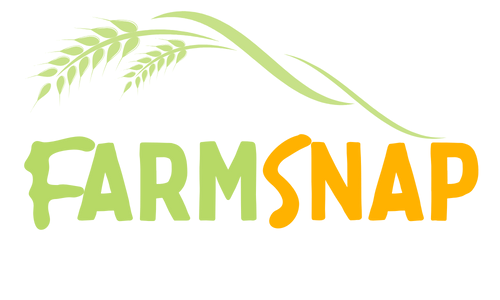
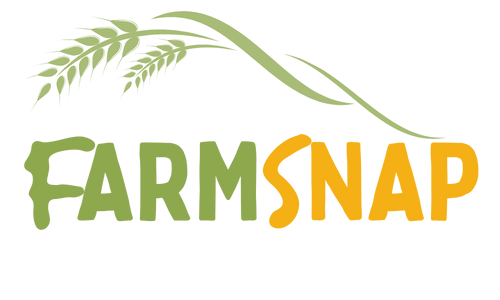
fixed sign up bug

diff --git a/app/assets/stylesheets/components/_navbar.scss b/app/assets/stylesheets/components/_navbar.scss
@@ -8,5 +8,5 @@
 }
 
 .navbar-lewagon .navbar-brand img {
-  width: 40px;
+  width: 109px;
 }

diff --git a/app/controllers/users/registrations_controller.rb b/app/controllers/users/registrations_controller.rb
@@ -1,4 +1,4 @@
-class Users::RegistrationsController <  Devise::RegistrationsController
+class Users::RegistrationsController < Devise::RegistrationsController
 
   protected
 
@@ -6,8 +6,9 @@ class Users::RegistrationsController <  Devise::RegistrationsController
     if current_user.role == "farmer"
       Farmer.new
       new_farmer_path
+    else
+      root_path
     end
-    root_path
   end
 
 end
